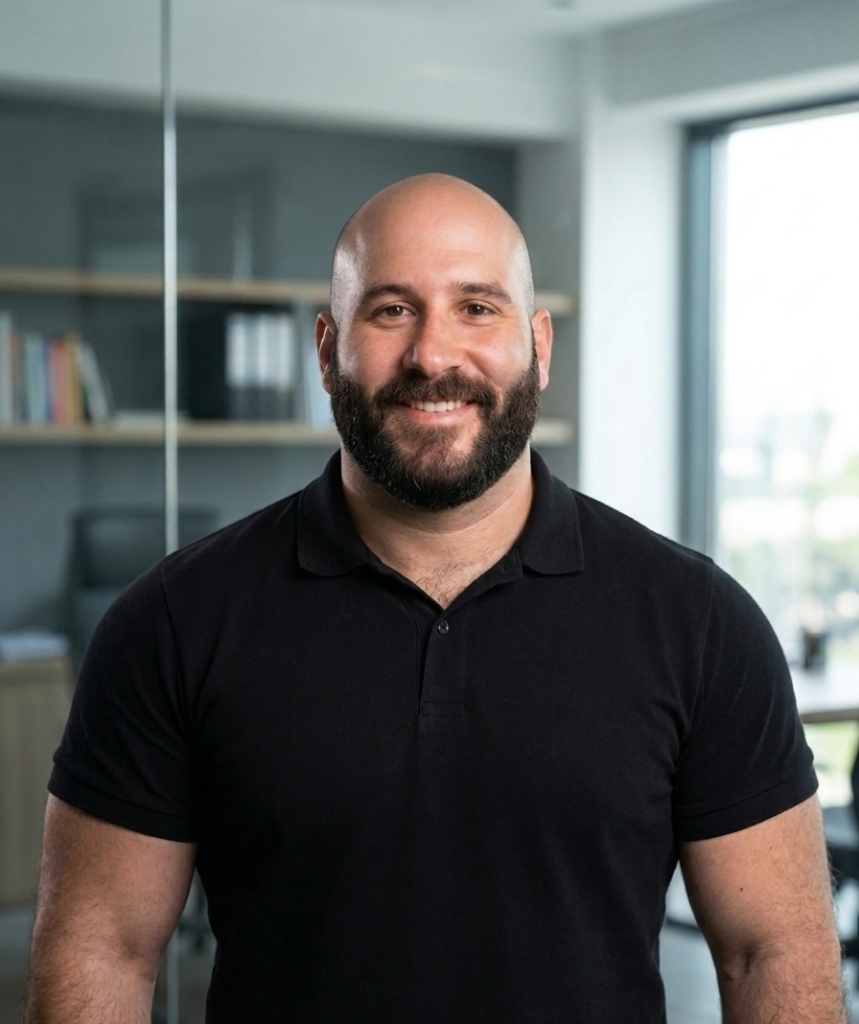
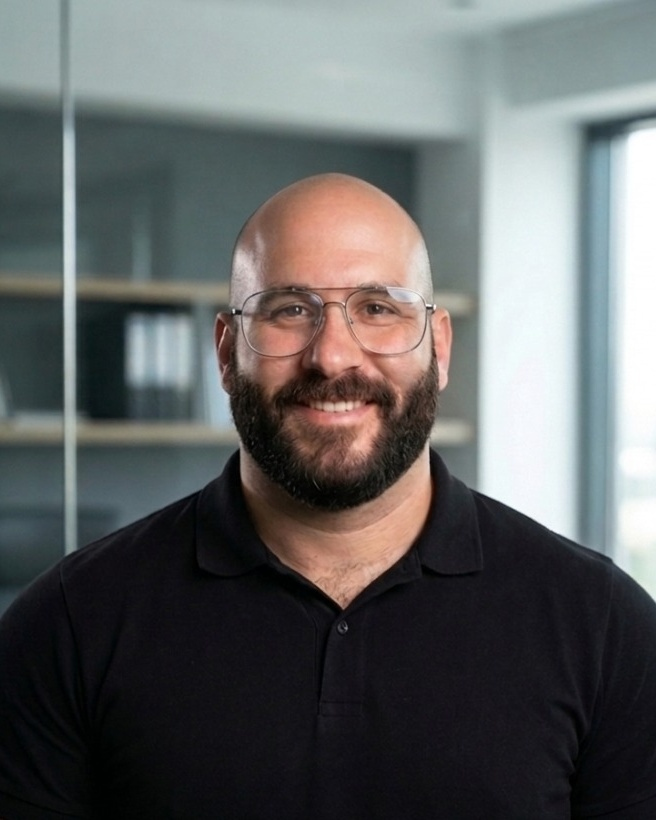
feat(portrait): update executive portrait across hero, header, footer and contact with chest-level crop

diff --git a/src/components/navigation/Footer.tsx b/src/components/navigation/Footer.tsx
@@ -2,6 +2,7 @@
 
 import React from 'react';
 import Link from 'next/link';
+import Image from 'next/image';
 import { Locale, CVContent } from '@/types';
 import { locales } from '@/data/cv-data';
 import { getLocalizedPath } from '@/lib/i18n';
@@ -51,9 +52,15 @@ export default function Footer({ currentLocale, cvData }: FooterProps) {
           {/* Col 1: Executive Profile */}
           <div className="space-y-4">
             <div className="flex items-center space-x-3">
-              <div className="w-9 h-9 rounded-lg bg-gradient-to-br from-cyan-500 to-emerald-500 p-[1px]">
-                <div className="w-full h-full bg-slate-950 dark:bg-slate-950 light:bg-slate-900 rounded-[7px] flex items-center justify-center font-mono font-bold text-cyan-400 text-sm">
-                  EdS
+              <div className="relative w-10 h-10 rounded-xl bg-gradient-to-br from-cyan-500 to-emerald-500 p-[1.5px] shadow-lg shadow-cyan-500/20 shrink-0">
+                <div className="w-full h-full rounded-[10px] overflow-hidden relative bg-slate-900">
+                  <Image
+                    src="/images/eduardo-desousa.jpg"
+                    alt="Eduardo de Sousa"
+                    fill
+                    sizes="40px"
+                    className="object-cover object-top"
+                  />
                 </div>
               </div>
               <span className="font-bold text-white text-lg">Eduardo de Sousa</span>
